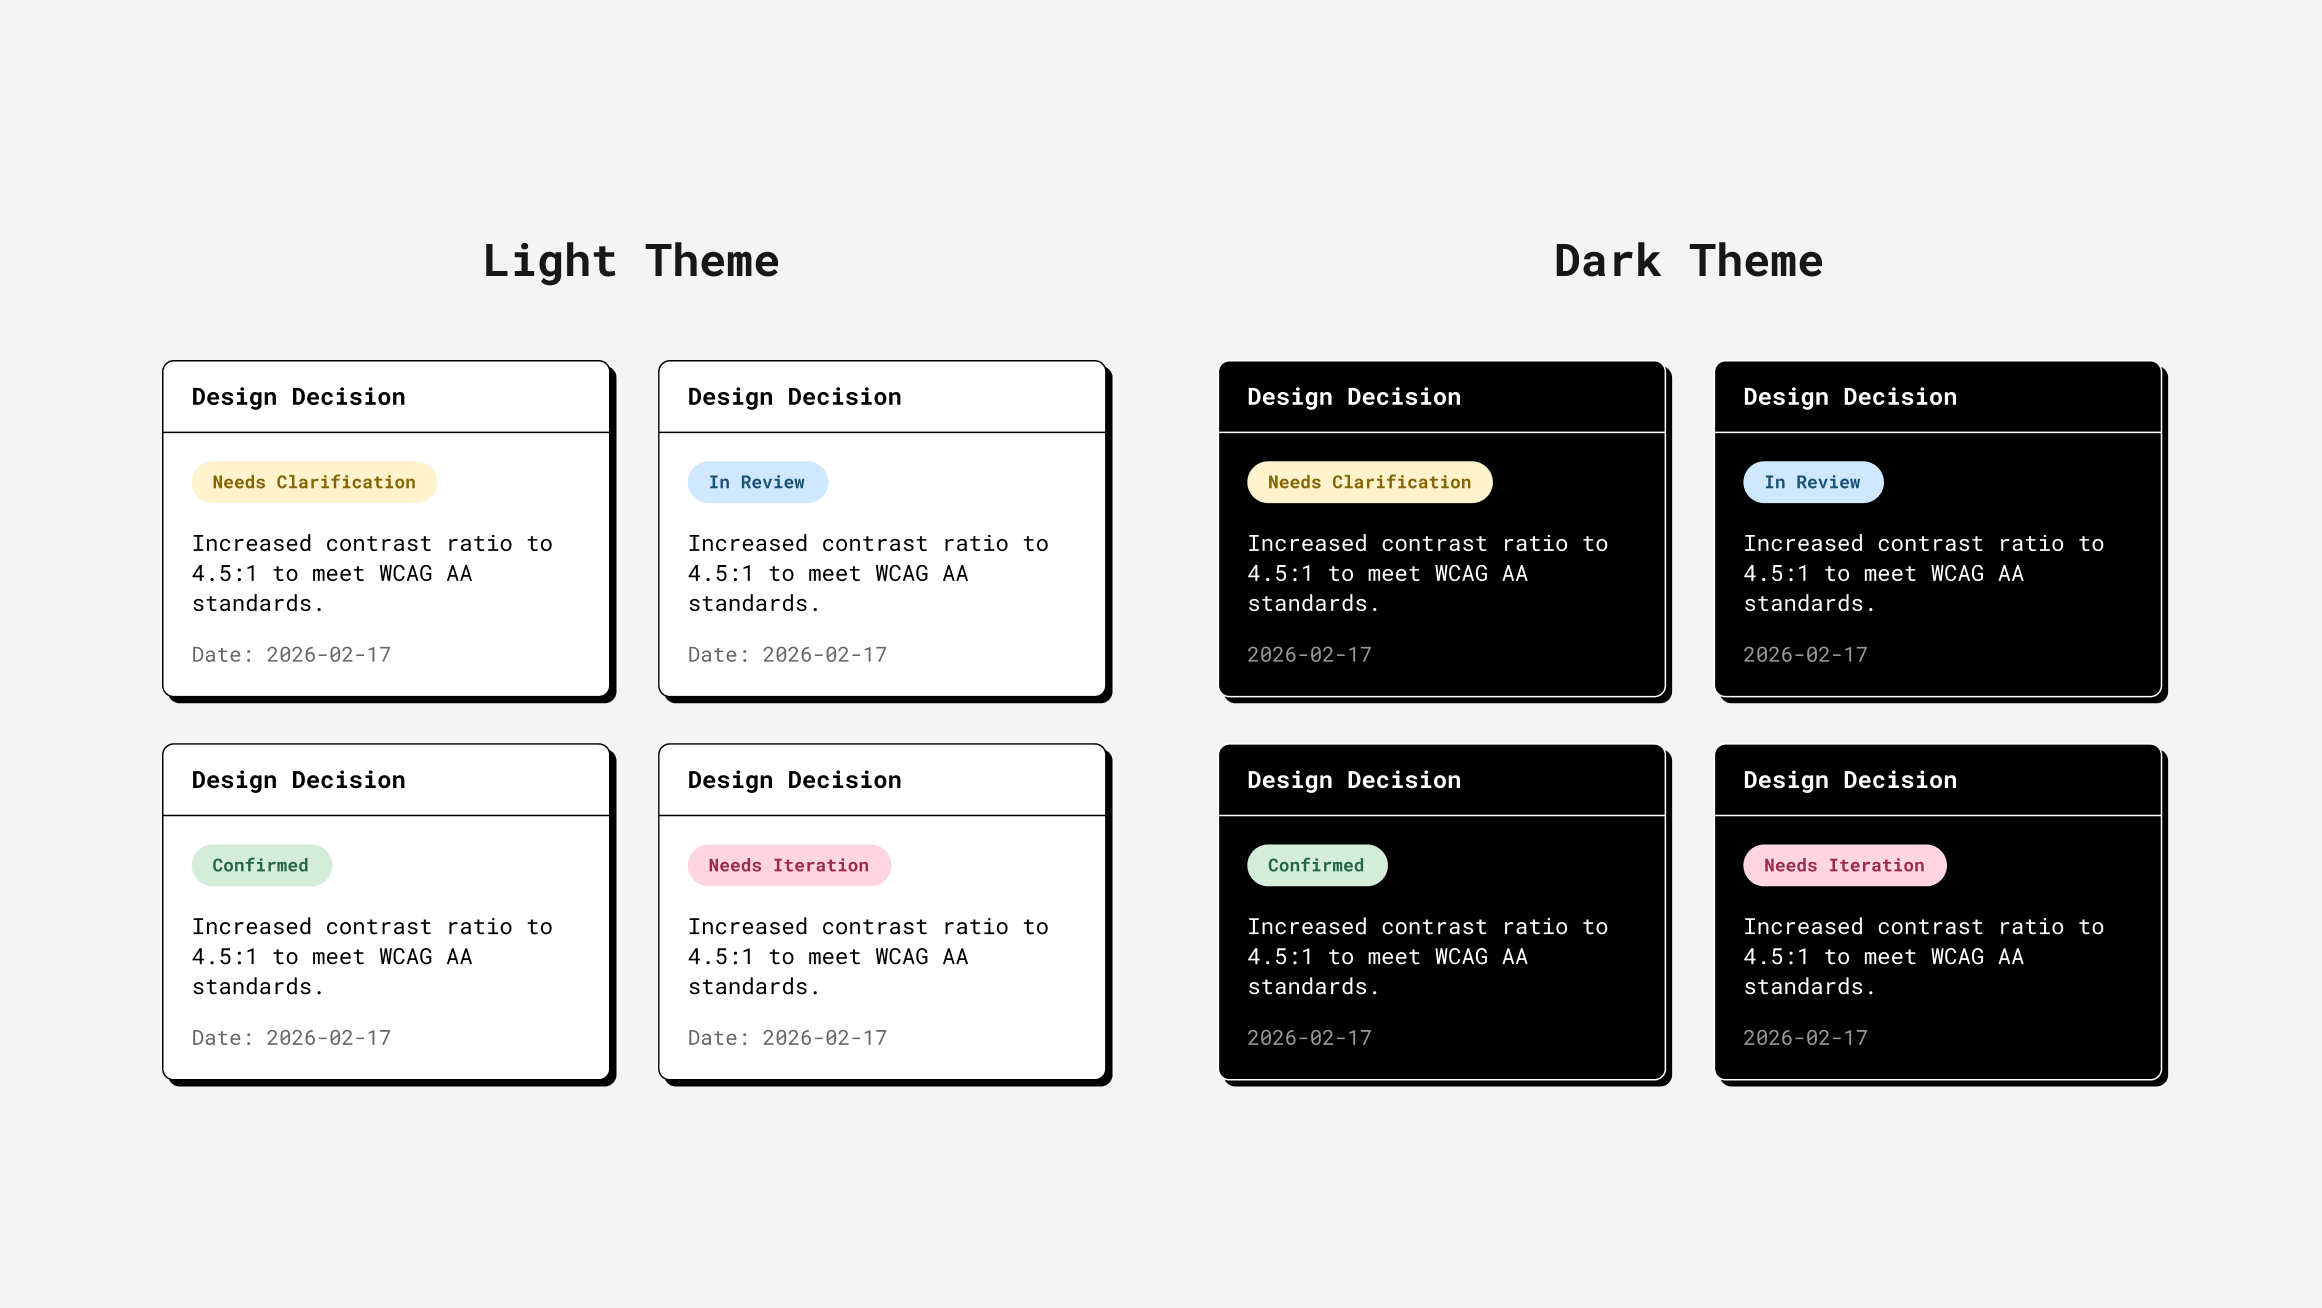
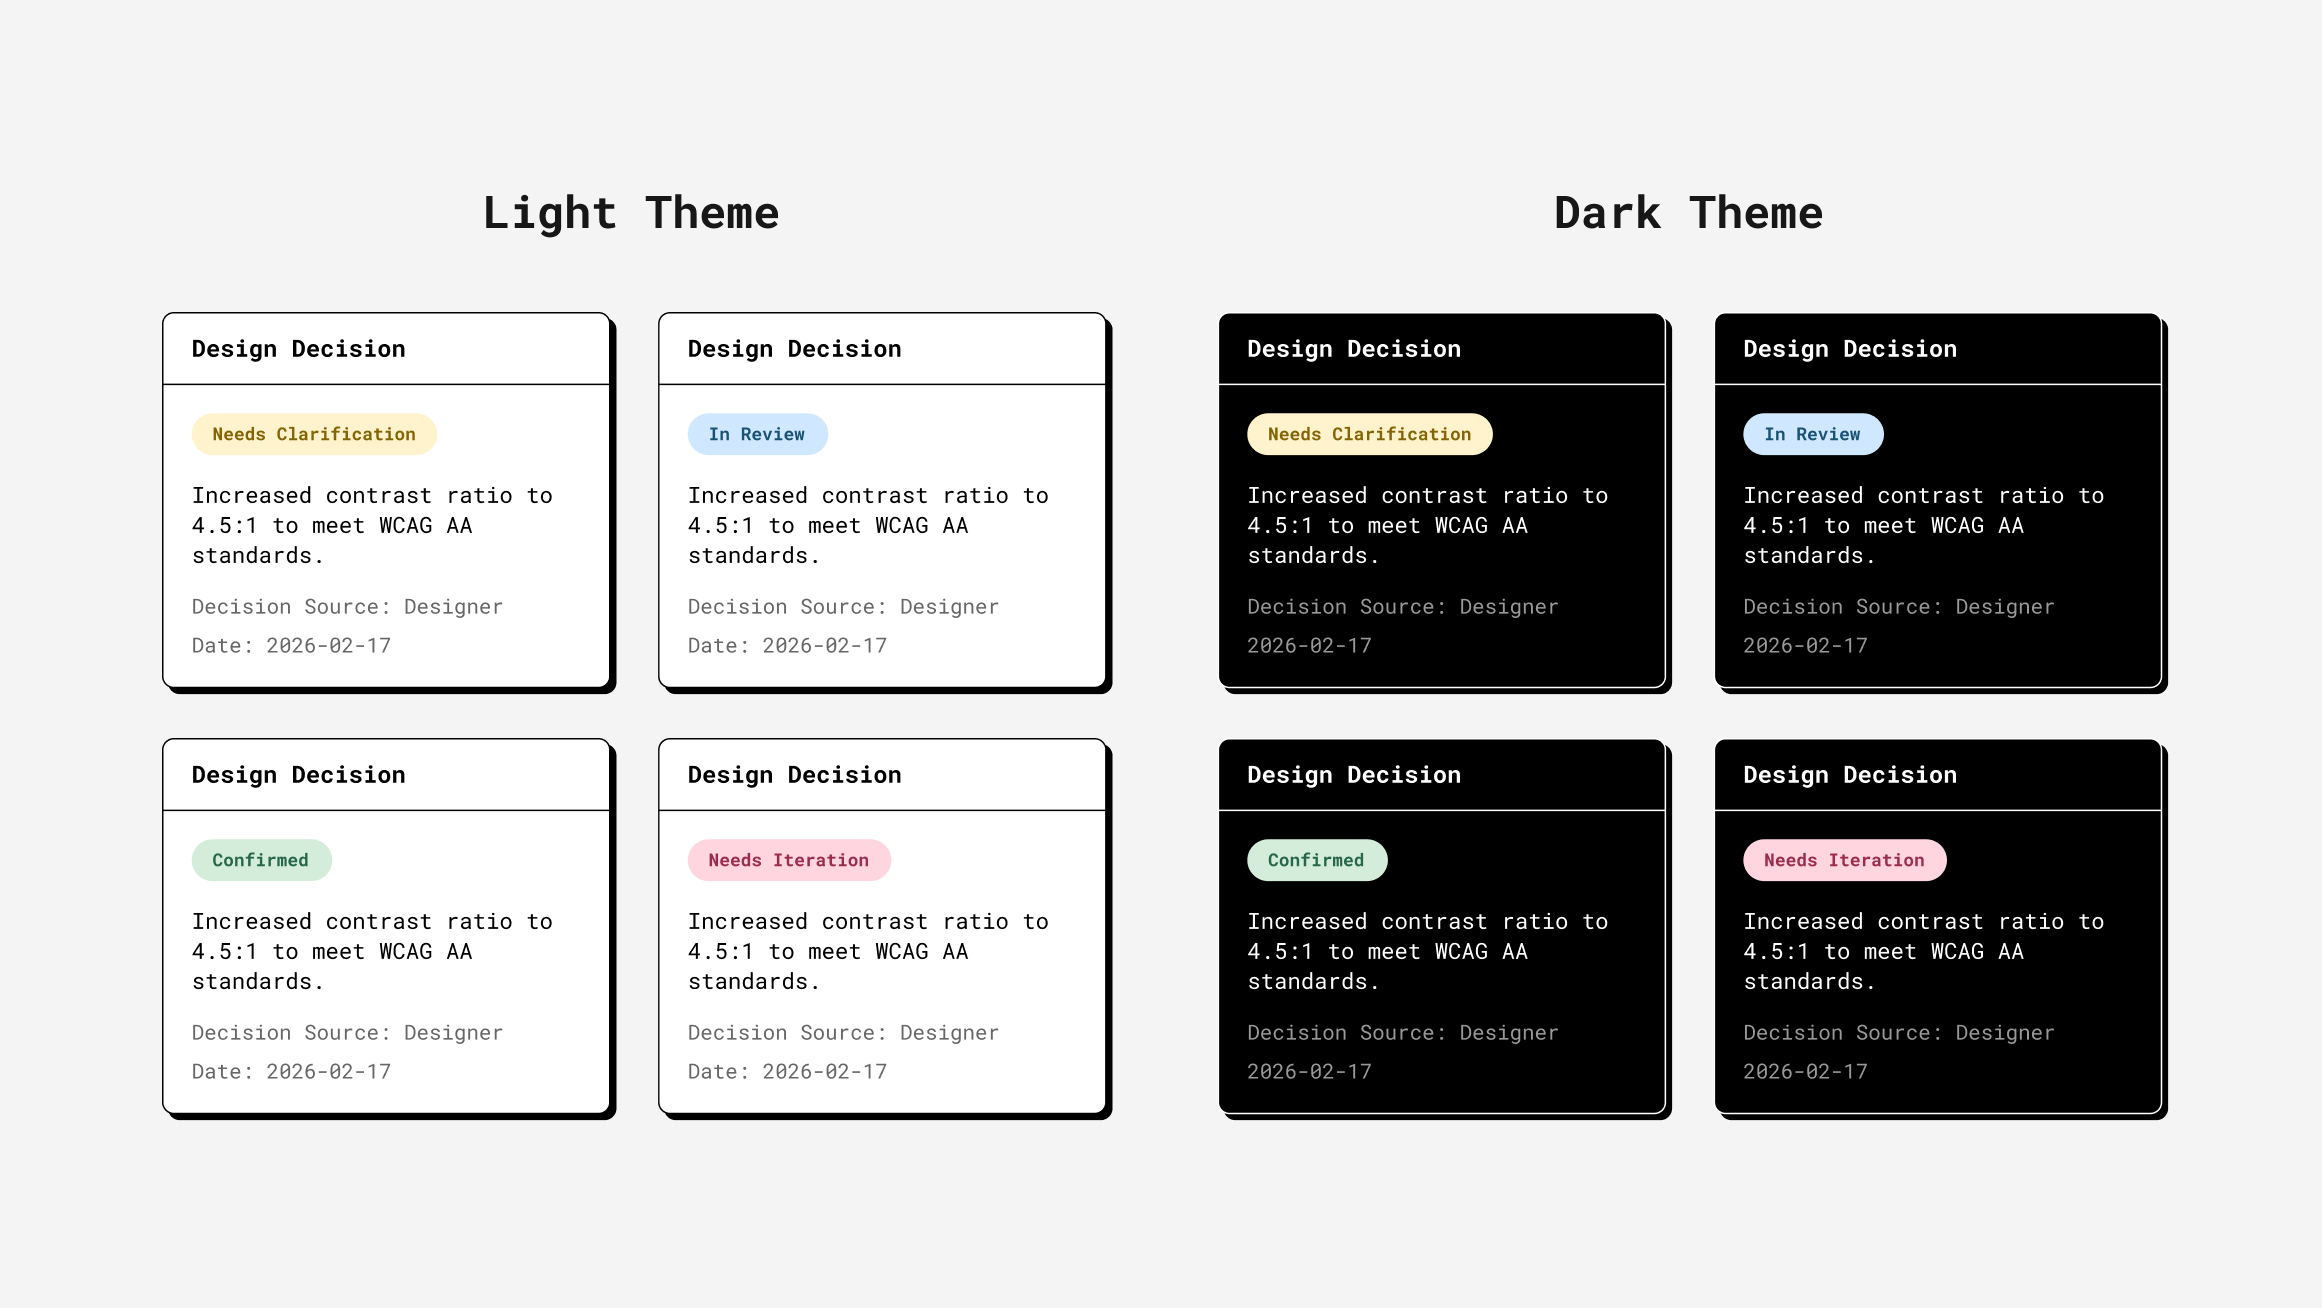
AI - 2nd project image and spacing updates

diff --git a/src/imports/AiProject2Detail.tsx b/src/imports/AiProject2Detail.tsx
@@ -286,7 +286,7 @@ function BuildingProcessSection() {
   return (
     <div className="content-stretch flex flex-col gap-[32px] items-start relative w-full" data-name="Building Process">
       <SectionLabel label="Building Process" />
-      <div className="flex flex-col gap-[80px] sm:gap-[110px] w-full">
+      <div className="flex flex-col gap-[110px] sm:gap-[170px] w-full">
         {steps.filter((step) => !step.hidden).map((step) => (
           <div key={step.title} className="flex flex-col gap-[20px] w-full">
             <FeatureBlock title={step.title} imageSrc={step.imageSrc} videoSrc={step.videoSrc} />

diff --git a/src/imports/AiProject1Detail.tsx b/src/imports/AiProject1Detail.tsx
@@ -292,7 +292,7 @@ function WhatIMadeSection() {
   return (
     <div className="content-stretch flex flex-col gap-[32px] items-start relative w-full" data-name="What I Made">
       <SectionLabel label="what i built" />
-      <div className="flex flex-col gap-[80px] sm:gap-[110px] w-full">
+      <div className="flex flex-col gap-[110px] sm:gap-[170px] w-full">
         <FeatureBlock
           title="Feature 1: Branch Chat"
           videoSrc={featureBranchChatVideo}
